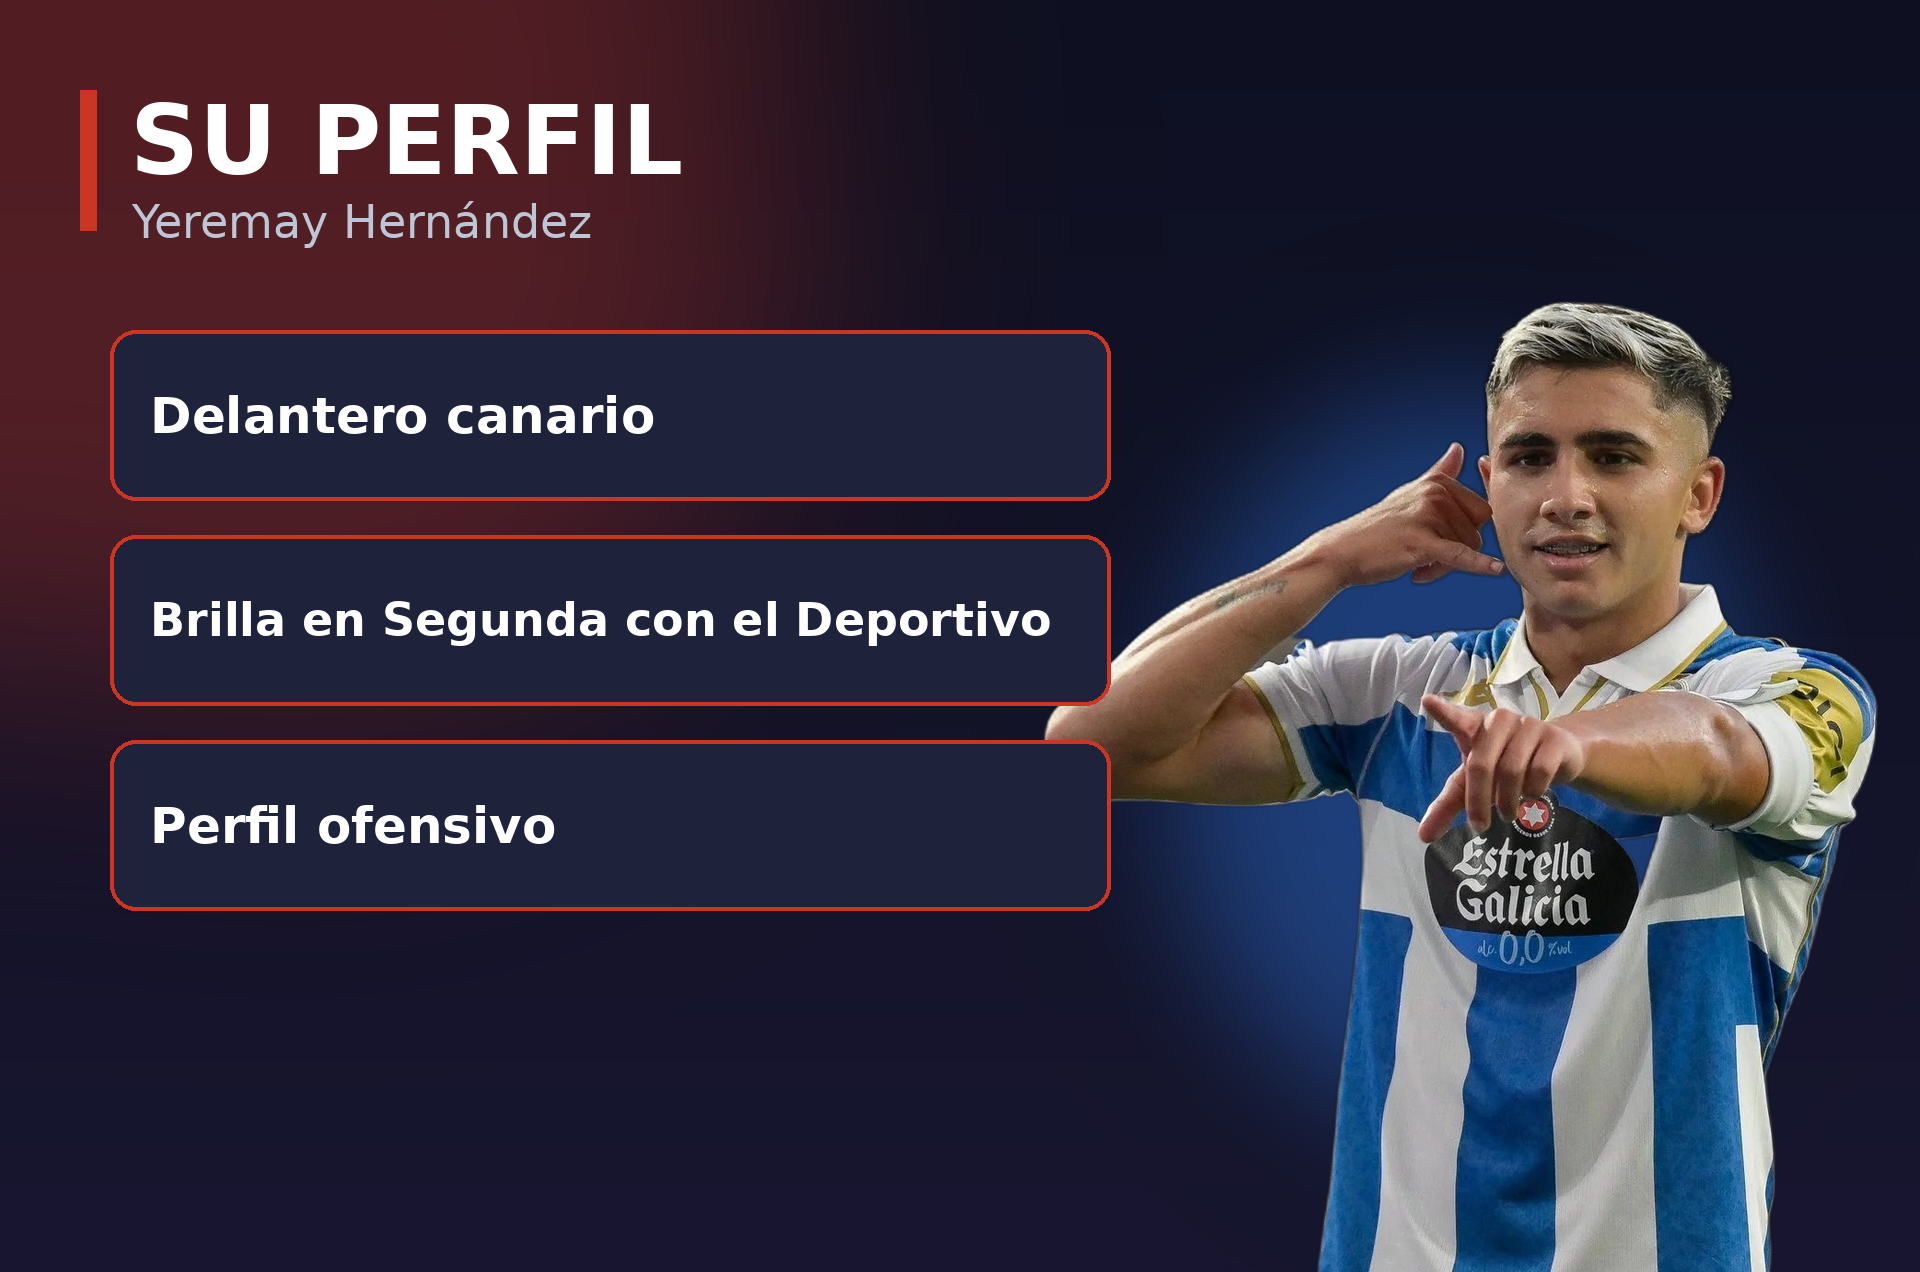
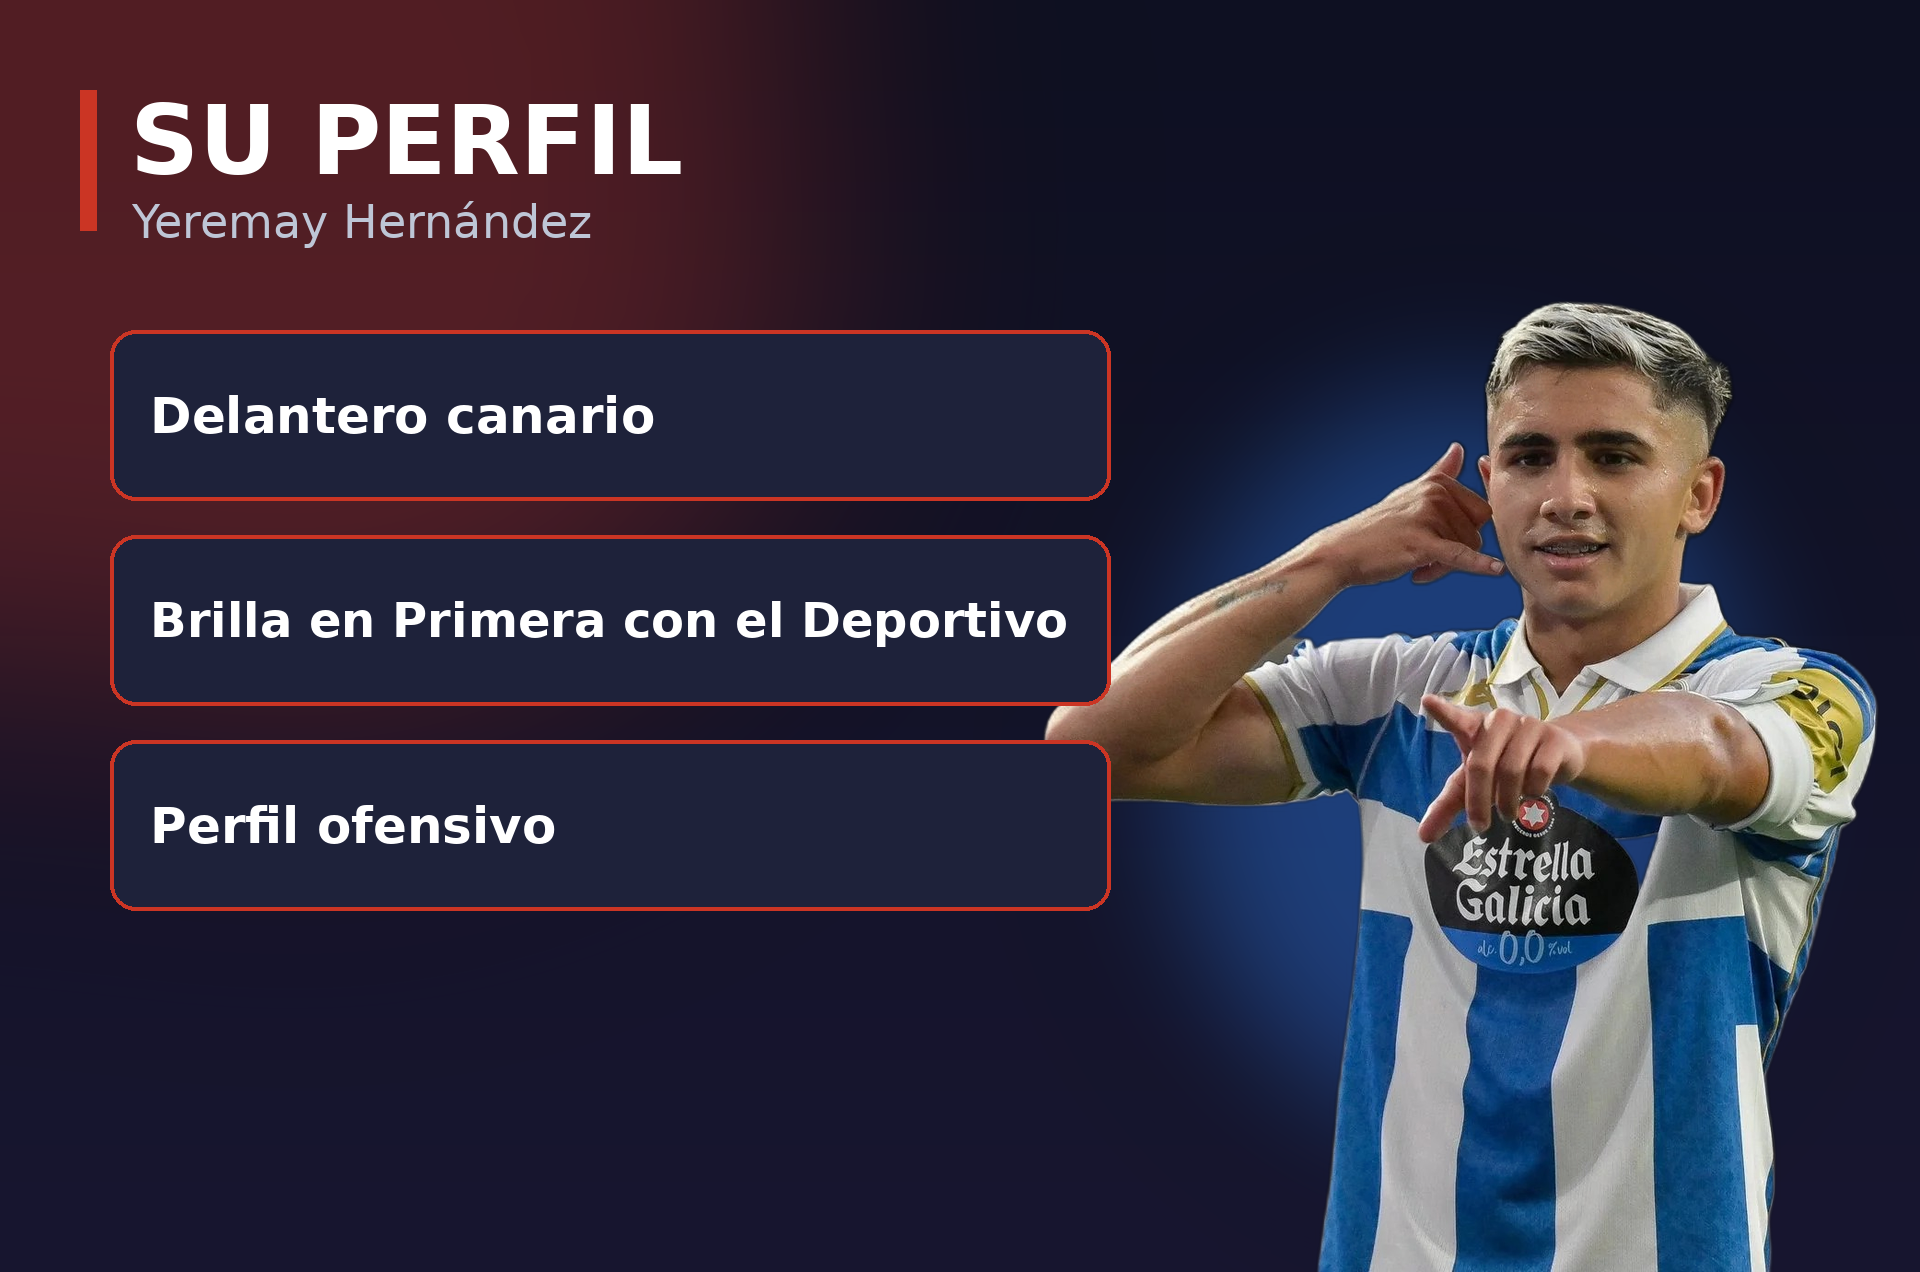
Yeremay: Deportivo en Primera, Lookman pronunciado «Lukman» y arranque más rápido
Claude-Session: https://claude.ai/code/session_012a1WDV7vX57tvA9GzvRdCG

Changed region(s): [[0.0938, 0.4599, 0.3125, 0.5212], [0.375, 0.4599, 0.5625, 0.5212]]

diff --git a/scripts/plato/demo.py b/scripts/plato/demo.py
@@ -19,6 +19,7 @@ GUION = [
 
 PAUSA = "__PAUSA__"
 AUDIO = "__AUDIO__:"   # prefijo de una frase grabada por el autor (ruta a su audio)
+INICIO = 0.15      # silencio antes de la primera frase (s)
 HUECO = 0.3        # silencio entre frases (s); el json puede cambiarlo con "hueco"
 VELOCIDAD = "+12%"  # velocidad de la voz; el json puede cambiarla con "velocidad"   # tramo sin voz (por ejemplo, la imagen del canal al final)
 
@@ -62,8 +63,8 @@ def ambiente(n):
 
 def main(salida, render=None):
     tmp = os.path.join(os.path.dirname(os.path.abspath(salida)), "plato_tmp"); os.makedirs(tmp, exist_ok=True)
-    partes, tramos, t = [], [], 0.6
-    pista = [np.zeros(int(0.6 * SR))]
+    partes, tramos, t = [], [], INICIO
+    pista = [np.zeros(int(INICIO * SR))]
     for i, (plano, slide, texto) in enumerate(GUION):
         x = voz(texto, os.path.join(tmp, f"v{i}.wav"))
         ini = t; t += len(x) / SR + HUECO

diff --git a/scripts/plato/vertical.py b/scripts/plato/vertical.py
@@ -162,7 +162,7 @@ def main(ruta_json, salida):
     demo.main(salida, render=lambda tr, voz, sal, fin: render(n, paneles, tr, voz, sal, fin))
     if portada:
         import portada as port
-        port.poner(portada if os.path.isabs(portada) else os.path.join(RAIZ, portada), salida, destino, W, H, float(n.get("portada_segundos", 1.6)), FPS)
+        port.poner(portada if os.path.isabs(portada) else os.path.join(RAIZ, portada), salida, destino, W, H, float(n.get("portada_segundos", 1.0)), FPS)
 
 if __name__ == "__main__":
     main(sys.argv[1], sys.argv[2])

diff --git a/scripts/plato/noticia.py b/scripts/plato/noticia.py
@@ -53,7 +53,7 @@ def main(ruta_json, salida):
     if portada:
         import portada as port
         port.poner(portada if os.path.isabs(portada) else os.path.join(RAIZ, portada), salida, destino, pr.W, pr.H,
-                   float(n.get("portada_segundos", 1.6)), pr.FPS)
+                   float(n.get("portada_segundos", 1.0)), pr.FPS)
 
 if __name__ == "__main__":
     main(sys.argv[1], sys.argv[2])

diff --git a/scripts/nombres.py b/scripts/nombres.py
@@ -13,6 +13,7 @@ PRONUNCIACION = {
     "Raphinha": "Rafiña",
     "Aston Villa": "Aston Vila",
     "Hancko": "Janco",
+    "Lookman": "Lukman",
 }
 
 def pronunciar(texto):
